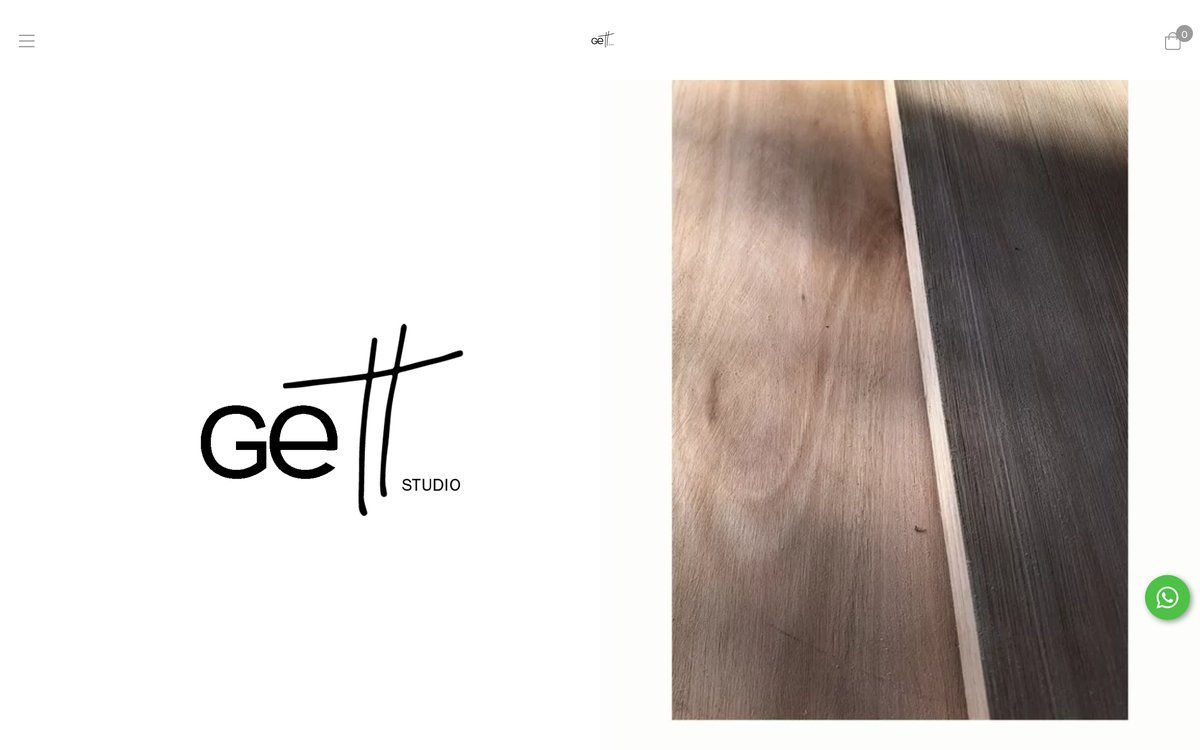
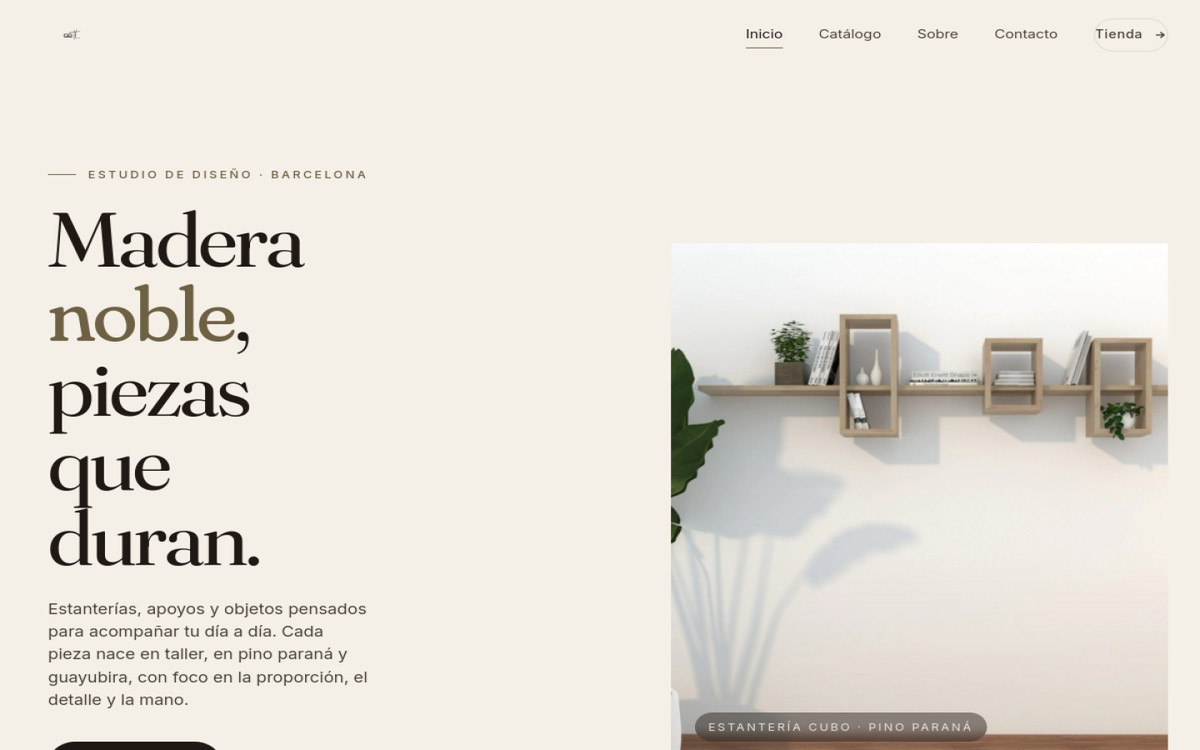
Update GeTT case: new showcase site (vantiadigital.github.io/Gett) + refreshed tags

diff --git a/pages/casos.html b/pages/casos.html
@@ -82,21 +82,21 @@
             <div class="case__mockup mockup--01" aria-label="Vista previa de GeTT Studio">
               <img class="case__mockup-img"
                    src="/assets/images/gett-studio.jpg"
-                   alt="Vista previa de la tienda online GeTT Studio"
+                   alt="Vista previa del estudio GeTT"
                    loading="lazy"
                    width="1200"
                    height="750" />
             </div>
             <div class="case__body">
               <h3 class="case__name">GeTT Studio</h3>
-              <span class="case__sector">E-commerce de mobiliario y decoración</span>
+              <span class="case__sector">Estudio de mobiliario y objetos en madera noble</span>
               <div class="case__tags">
                 <span class="case__tag">Mobiliario</span>
-                <span class="case__tag">Vender online</span>
-                <span class="case__tag">Shopify</span>
+                <span class="case__tag">Estudio de diseño</span>
+                <span class="case__tag">Landing</span>
               </div>
-              <a class="case__link" href="https://gettstudio.mitiendanube.com/" target="_blank" rel="noopener noreferrer">
-                Ver tienda
+              <a class="case__link" href="https://vantiadigital.github.io/Gett/" target="_blank" rel="noopener noreferrer">
+                Ver sitio
                 <svg width="16" height="16" viewBox="0 0 24 24" fill="none" stroke="currentColor" stroke-width="2" stroke-linecap="round" stroke-linejoin="round" aria-hidden="true">
                   <path d="M7 17 17 7"/>
                   <path d="M7 7h10v10"/>